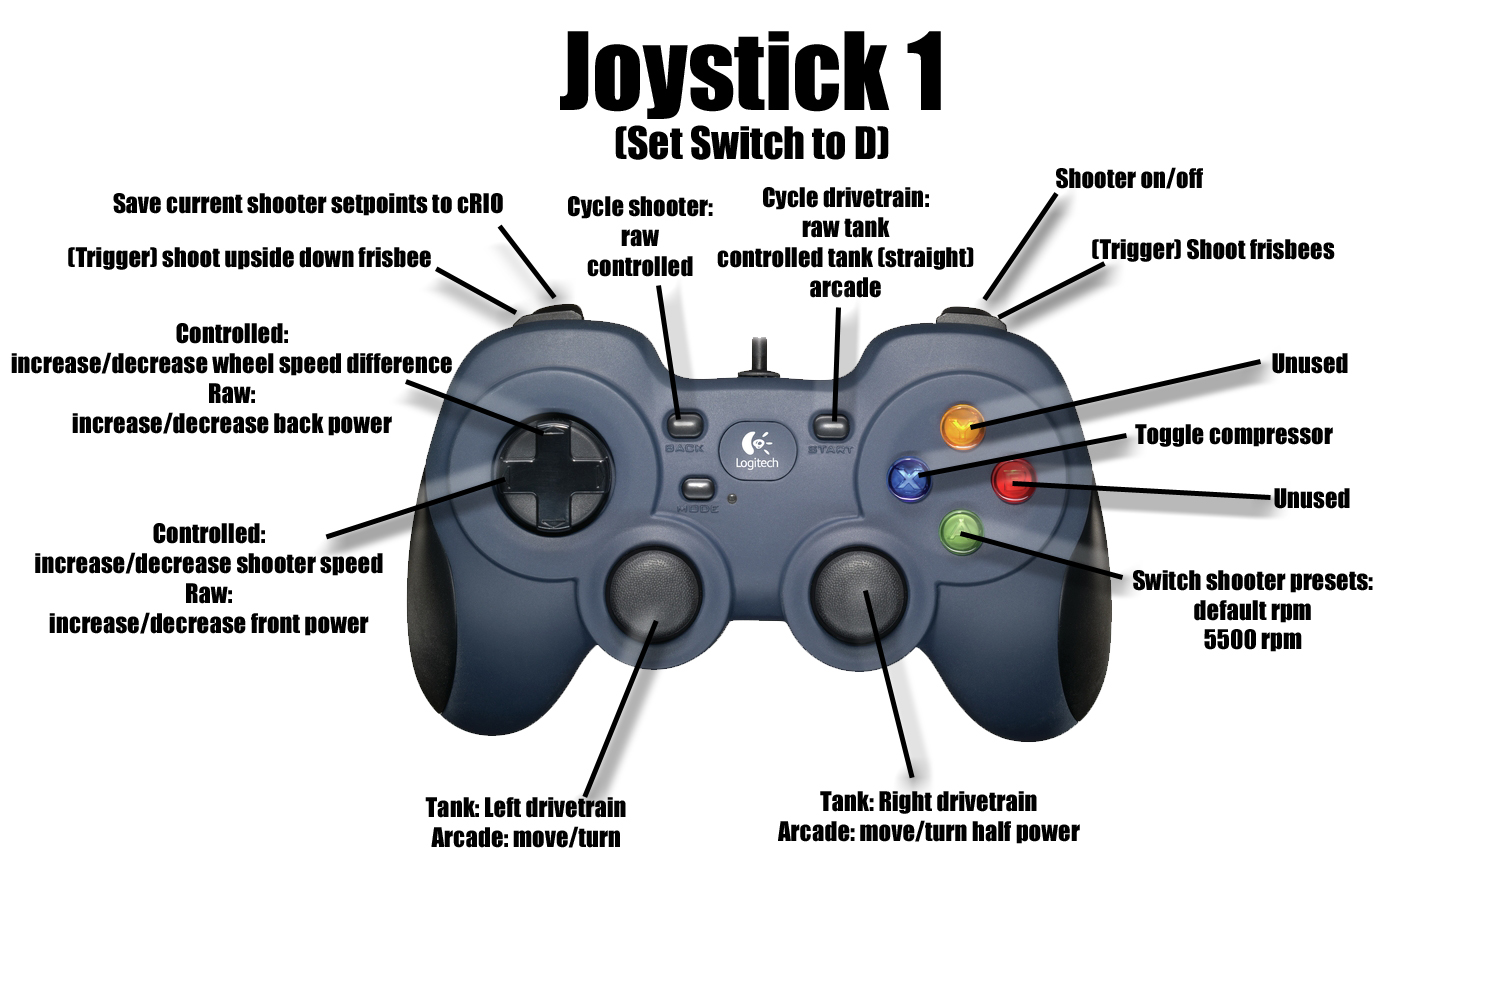
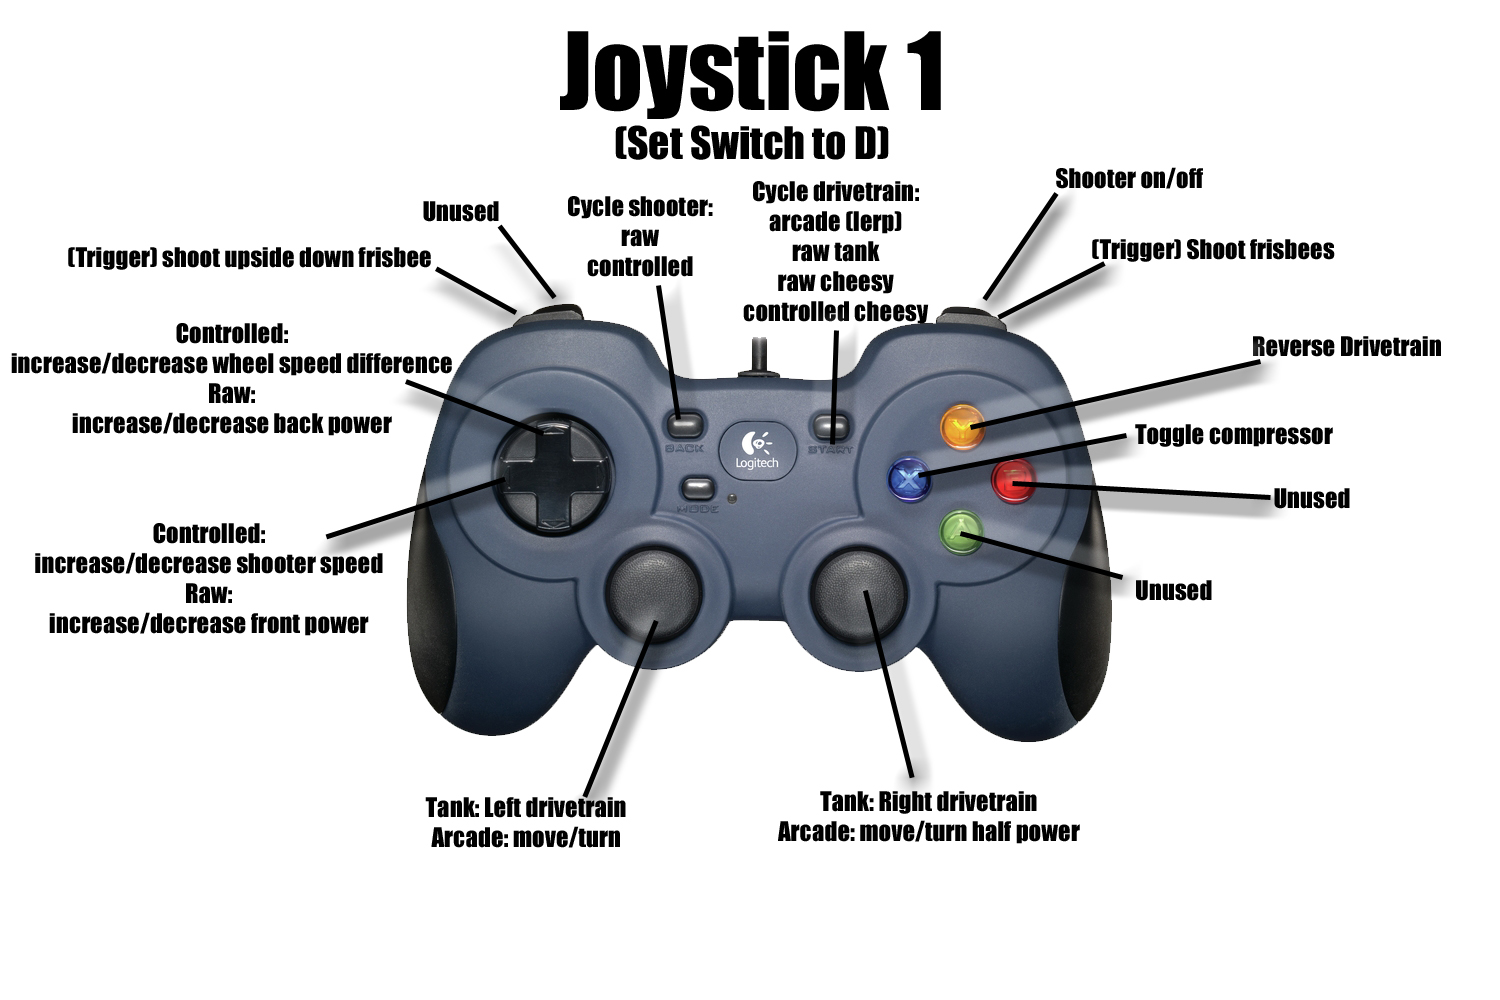
changed names in OI organized OI Removed references to shift buttons and AutoSetRPM. updated joystick pictures Changed modes supported by cycleDrive. Made things better

diff --git a/FIRST/2013/Java/Ascension/src/disco/OI.java b/FIRST/2013/Java/Ascension/src/disco/OI.java
@@ -29,12 +29,12 @@ public class OI {
     private Button b_bumpL = new JoystickButton(gp1, gp1.BUMPER_L);
     private Button b_trigR = new JoystickButton(gp1, gp1.TRIGGER_R);
     private Button b_trigL = new JoystickButton(gp1, gp1.TRIGGER_L);
-    private Button b_sBack = new JoystickButton(gp1, gp1.BTN_BACK);
-    private Button b_sStar = new JoystickButton(gp1, gp1.BTN_START);
-    private Button b_btnA = new JoystickButton(gp1, gp1.BTN_A);
-    private Button b_btnX = new JoystickButton(gp1, gp1.BTN_X);
-    private Button b_btnB = new JoystickButton(gp1, gp1.BTN_B);
-    private Button b_btnY = new JoystickButton(gp1, gp1.BTN_Y);
+    private Button b_Back = new JoystickButton(gp1, gp1.BTN_BACK);
+    private Button b_Start = new JoystickButton(gp1, gp1.BTN_START);
+    private Button b_A = new JoystickButton(gp1, gp1.BTN_A);
+    private Button b_X = new JoystickButton(gp1, gp1.BTN_X);
+    private Button b_B = new JoystickButton(gp1, gp1.BTN_B);
+    private Button b_Y = new JoystickButton(gp1, gp1.BTN_Y);
     private Button b_clicR = new JoystickButton(gp1, gp1.CLICK_R);
     private Button b_clicL = new JoystickButton(gp1, gp1.CLICK_L);
     // JOYSTICK 2
@@ -46,21 +46,21 @@ public class OI {
     private Button b2_bumpL = new JoystickButton(gp2, gp2.BUMPER_L);
     private Button b2_trigR = new JoystickButton(gp2, gp2.TRIGGER_R);
     private Button b2_trigL = new JoystickButton(gp2, gp2.TRIGGER_L);
-    private Button b2_sBack = new JoystickButton(gp2, gp2.BTN_BACK);
-    private Button b2_sStar = new JoystickButton(gp2, gp2.BTN_START);
-    private Button b2_btnA = new JoystickButton(gp2, gp2.BTN_A);
-    private Button b2_btnX = new JoystickButton(gp2, gp2.BTN_X);
-    private Button b2_btnB = new JoystickButton(gp2, gp2.BTN_B);
-    private Button b2_btnY = new JoystickButton(gp2, gp2.BTN_Y);
+    private Button b2_Back = new JoystickButton(gp2, gp2.BTN_BACK);
+    private Button b2_Start = new JoystickButton(gp2, gp2.BTN_START);
+    private Button b2_A = new JoystickButton(gp2, gp2.BTN_A);
+    private Button b2_X = new JoystickButton(gp2, gp2.BTN_X);
+    private Button b2_B = new JoystickButton(gp2, gp2.BTN_B);
+    private Button b2_Y = new JoystickButton(gp2, gp2.BTN_Y);
     private Button b2_clicR = new JoystickButton(gp2, gp2.CLICK_R);
     private Button b2_clicL = new JoystickButton(gp2, gp2.CLICK_L);
-    
+
     public static final int MODE_OLD = 0;
     public static final int MODE_ANDY = 1;
-    public static final int MODE_MITCHELL = 2;
-    
-    private int joyMode = MODE_OLD; 
-    
+    public static final int MODE_SPLIT = 2;
+
+    private int joyMode = MODE_OLD;
+
     public OI() {
         switch (joyMode){
                 case MODE_OLD:
@@ -69,75 +69,95 @@ public class OI {
                 case MODE_ANDY:
                     andyMap();
                     break;
-                case MODE_MITCHELL:
-                    mitchellMap();
+                case MODE_SPLIT:
+                    splitMap();
                     break;
+		default:
+		    oldMap();
+		    break;
         }
-                    
+
     }
-    public void oldMap() {
-        b_dpadU.whenPressed(new ShooterIncDiff());
-        b_dpadD.whenPressed(new ShooterDecDiff());
-        b_bumpR.whenPressed(new ShooterToggle());
-        b_dpadR.whenPressed(new ShooterInc());
-        b_dpadL.whenPressed(new ShooterDec());
-        b_trigR.whenPressed(new Shoot()); 
-        b_trigL.whenPressed(new Clear());
-        b_sBack.whenPressed(new cycleShooter());
-        b_btnA.whenPressed(new AutoSetRPM());
-//        b_turn.whenPressed(new DriveAngleEncoder(90));
-//        b_dist.whenPressed(new DriveDistance(36));
-        b_sStar.whenPressed(new cycleDrive());
-        b_btnY.whenPressed(new NegateDrive());
-        b_btnX.whenPressed(new ToggleCompressor());
-//        b_saveData.whenPressed(new SaveData());
-        b2_btnA.whenPressed(new AutoShift());
-//	b_shiftUp.whenPressed(new ShiftUp());
-//	b_shiftDown.whenPressed(new ShiftDown());
-//      b_bumpL.whenPressed(new Shift());
-        b_bumpL.whileHeld(new ShiftDown());
-        b2_sBack.whenPressed(new RawJoyTank());
-        b2_sStar.whenPressed(new ShooterBangBang());
-//        b2_clicR.whenPressed(new AutoShoot(5, 1000, 100));
-    }
-    public void andyMap() {
-        // Shooter
+    public final void oldMap() {
+	/*
+	 * Shooter
+	 */
         b_dpadU.whenPressed(new ShooterIncDiff());
         b_dpadD.whenPressed(new ShooterDecDiff());
         b_bumpR.whenPressed(new ShooterToggle());
         b_dpadR.whenPressed(new ShooterInc());
         b_dpadL.whenPressed(new ShooterDec());
         b_trigR.whenPressed(new Shoot());
-        b_btnB.whenPressed(new Clear());
-        b_sBack.whenPressed(new cycleShooter());
-        b_btnY.whenPressed(new SaveData());
-//        b_bumpL.whenPressed(new AutoShoot(5, 1000, 100));
-        // Compressor
-        b_btnX.whenPressed(new ToggleCompressor());
-        // Drive
-        b_btnA.whenPressed(new AutoSetRPM());
-        b_sStar.whenPressed(new cycleDrive());
+        b_trigL.whenPressed(new Clear());
+        b_Back.whenPressed(new cycleShooter());
+
+	/*
+	 * Drivetrain
+	 */
+        b_Start.whenPressed(new cycleDrive());
+        b_Y.whenPressed(new NegateDrive());
+	//HW: not supported
+	    //b2_A.whenPressed(new AutoShift());
+	    //b_bumpL.whileHeld(new ShiftDown());
+
+	/*
+	 * Pneumatics
+	 */
+	b_X.whenPressed(new ToggleCompressor());
+
     }
-    public void mitchellMap() {
-        // Shooter
+    public final void andyMap() {
+        /*
+	 * Shooter
+	 */
+        b_dpadU.whenPressed(new ShooterIncDiff());
+        b_dpadD.whenPressed(new ShooterDecDiff());
+        b_bumpR.whenPressed(new ShooterToggle());
+        b_dpadR.whenPressed(new ShooterInc());
+        b_dpadL.whenPressed(new ShooterDec());
+        b_trigR.whenPressed(new Shoot());
+        b_B.whenPressed(new Clear());
+        b_Back.whenPressed(new cycleShooter());
+
+	/*
+	 * Drivetrain
+	 */
+	b_Start.whenPressed(new cycleDrive());
+
+        /*
+	 * Pneumatics
+	 */
+        b_X.whenPressed(new ToggleCompressor());
+    }
+    public final void splitMap() {
+        /*
+	 * Shooter
+	 */
         b2_dpadU.whenPressed(new ShooterIncDiff());
         b2_dpadD.whenPressed(new ShooterDecDiff());
         b2_dpadR.whenPressed(new ShooterInc());
         b2_dpadL.whenPressed(new ShooterDec());
-        b2_sStar.whenPressed(new cycleShooter());
-//        b2_bumpL.whenPressed(new AutoShoot(5, 1000, 100));
+        b2_Start.whenPressed(new cycleShooter());
         b2_bumpR.whenPressed(new ShooterToggle());
         b2_trigL.whenPressed(new Clear());
         b2_trigR.whenPressed(new Shoot());
-        // Compressor
-        b2_btnY.whenPressed(new ToggleCompressor());
-        b_trigL.whileHeld(new ShiftDown());
-        // Drive
-        b_btnB.whenPressed(new AutoSetRPM());
-        b_btnA.whenPressed(new NegateDrive());
-        b_sStar.whenPressed(new cycleDrive());
+
+	/*
+	 * Drivetrain
+	 */
+        b_A.whenPressed(new NegateDrive());
+        b_Start.whenPressed(new cycleDrive());
+	//HW: not supported
+	    //b_trigL.whileHeld(new ShiftDown());
+
+        /*
+	 * Pneumatics
+	 */
+        b2_Y.whenPressed(new ToggleCompressor());
+
+
     }
-    
+
     public void setMode(int mode) {
         this.joyMode = mode;
     }

diff --git a/FIRST/2013/Java/Ascension/src/disco/commands/drivetrain/cycleDrive.java b/FIRST/2013/Java/Ascension/src/disco/commands/drivetrain/cycleDrive.java
@@ -22,18 +22,16 @@ public class cycleDrive extends CommandBase {
     // Called repeatedly when this Command is scheduled to run
     protected void execute() {
         switch(mode){
-            case 0: new AssistedTank().start();
+            case 0: new LerpDrive().start();
                     break;
-            case 1: new RawJoyTank().start();
+	    case 1: new RawJoyTank().start();
                     break;
-            case 2: new LerpDrive().start();
+            case 2: new CheesyArcade().start();
                     break;
-            case 3: new CheesyArcade().start();
-                    break;
-            case 4: new AssistedCheesy().start();
+            case 3: new AssistedCheesy().start();
                     break;
         }
-        mode= mode<4 ? mode+1 : 0;
+        mode= mode<3 ? mode+1 : 0;
         done=true;
     }
 

diff --git a/FIRST/2013/Java/Ascension/src/disco/utils/BetterDrive.java b/FIRST/2013/Java/Ascension/src/disco/utils/BetterDrive.java
@@ -7,7 +7,7 @@ public class BetterDrive extends RobotDrive {
     double leftPrev=0;
     double rightPrev=0;
     double m_rampLimit=0.18;
-    
+
     public BetterDrive(SpeedController a, SpeedController b,
             SpeedController c, SpeedController d) {
         super(a,b,c,d);
@@ -30,7 +30,7 @@ public class BetterDrive extends RobotDrive {
     public void tankDrive(double leftValue, double rightValue, boolean smoothed, boolean ramp) {
 	if(smoothed){
 	    //what? no sign fuction? dumdum.
-	    double leftSign= leftValue>=0 ? 1 : -1;//Why were these -0.8? I forget.
+	    double leftSign= leftValue>=0 ? 1 : -1;
 	    double rightSign= rightValue>=0 ? 1 : -1;
 
 	    leftValue=leftSign*Map(Math.abs(leftValue));

diff --git a/FIRST/2013/Java/Ascension/src/disco/commands/drivetrain/LerpDrive.java b/FIRST/2013/Java/Ascension/src/disco/commands/drivetrain/LerpDrive.java
@@ -70,8 +70,8 @@ public class LerpDrive extends CommandBase {
     protected void execute() {
 	calculateInputs();
 	//PID stuff
-	if (move == 0) {
-	    //turnControl.enable();
+	if (turn == 0 && move != 0) {
+	    //turnControl.enable(); //DON'T UNCOMMENT UNLESS ENCODERS WORK
 	    turn = -m_correction / 2.0;
 	} else {
 	    //driver is doing something else. start over.

diff --git a/FIRST/2013/Java/Ascension/src/disco/commands/shooter/AutoSetRPM.java b/FIRST/2013/Java/Ascension/src/disco/commands/shooter/AutoSetRPM.java
@@ -2,6 +2,12 @@ package disco.commands.shooter;
 
 import disco.commands.CommandBase;
 
+
+/**
+ * This class must be improved before it can be included in main code.
+ * It must be consistent. Currently whatever speed the wheel was spinning at will be stored.
+ *
+ */
 public class AutoSetRPM extends CommandBase {
     boolean done;
     public AutoSetRPM() {
